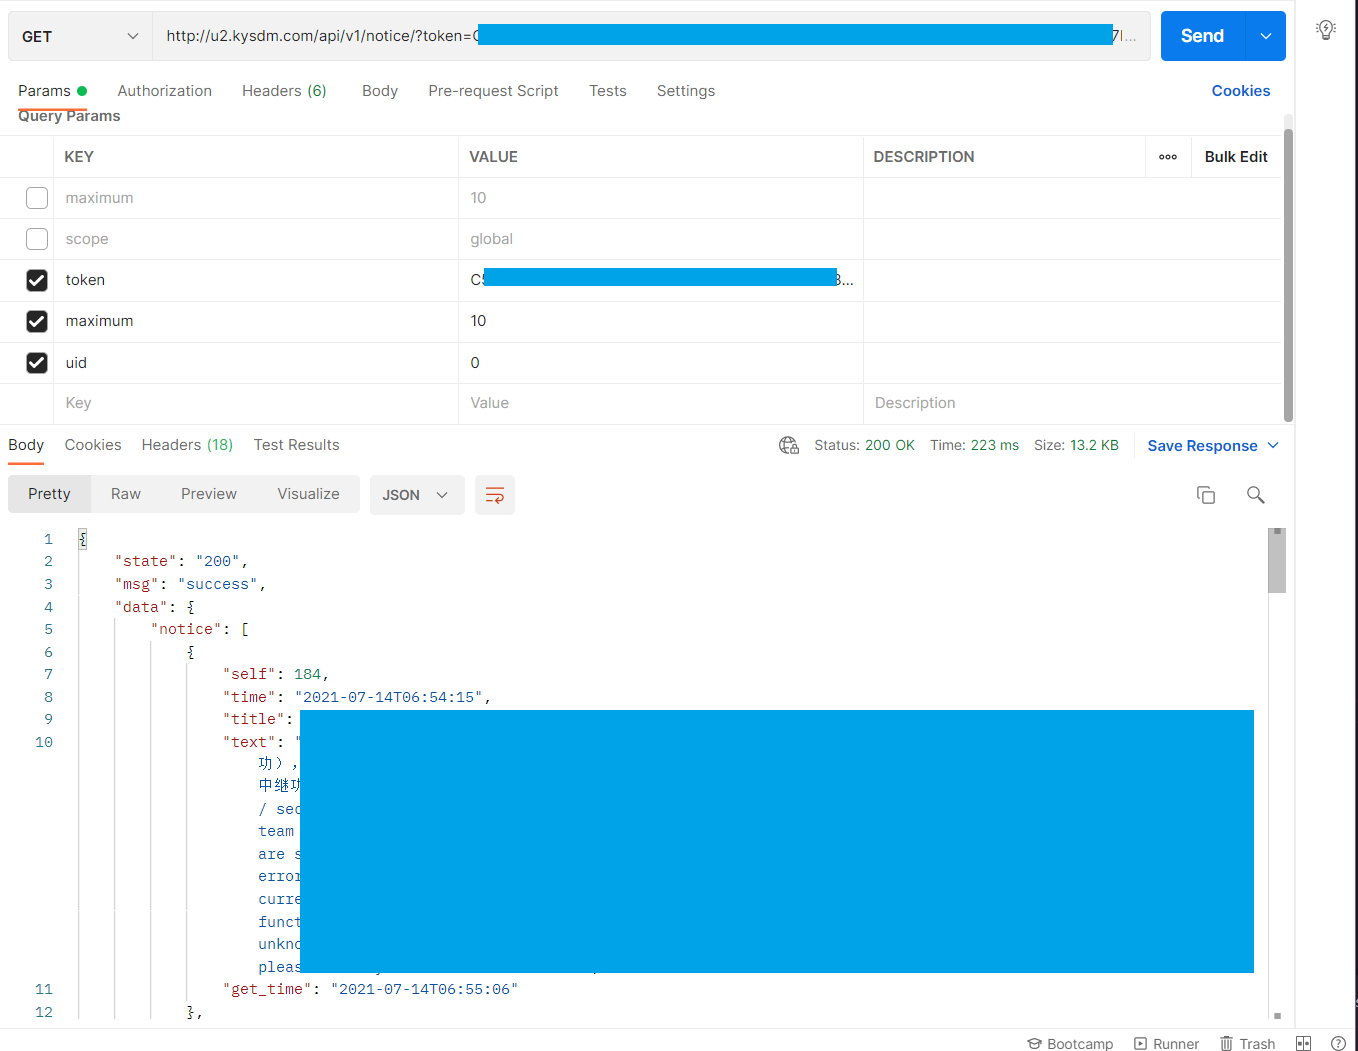
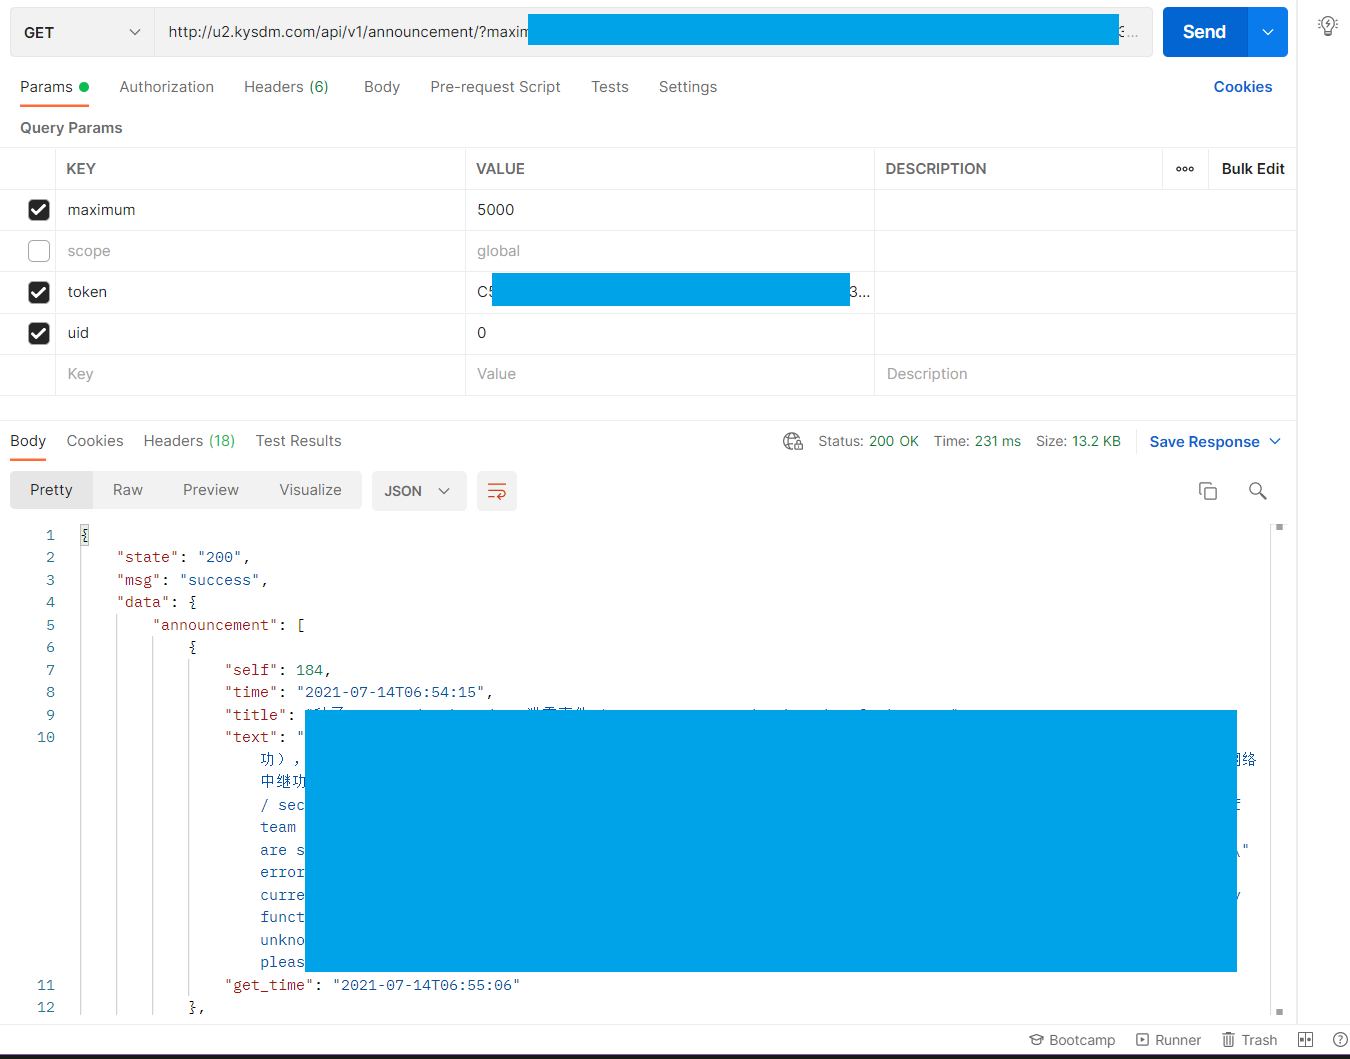
更改方法名

diff --git a/README.md b/README.md
@@ -202,7 +202,7 @@
 ## 首页公告
 > U2公告
 
-`GET` `https://u2.kysdm.com/api/v1/notice`
+`GET` `https://u2.kysdm.com/api/v1/announcement`
 
 |  参数   | 数据类型  | 说明  |
 |  :--:  | :--:  | ----  |
